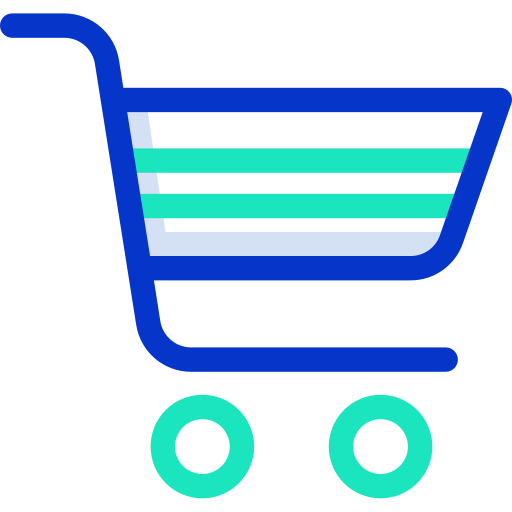
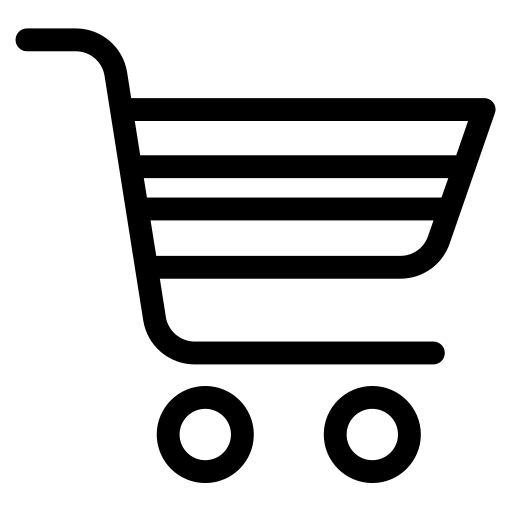
new img

diff --git a/src/components/Offer/Offer.js b/src/components/Offer/Offer.js
@@ -1,7 +1,7 @@
 import React, { useState } from 'react';
 import { OfferButton, OfferText, OfferTitle, OfferWrapper } from './OfferStyles';
 import Modal from '../Modal/Modal';
-import shop from '../../images/shop.jpg'
+import shop from '../../images/shop.png'
 
 const Offer = () => {
     const [showModal, setShowModal ] = useState(false);
@@ -15,7 +15,7 @@ const Offer = () => {
             <OfferTitle>Skorzystaj z oferty</OfferTitle>
             <OfferText>Odzwiedź nasz salon i sprawdź, co zyskujesz</OfferText>
             <OfferButton onClick = { handleOpenModal } >znajdź salon</OfferButton>
-            <Modal showModal = {showModal} setShowModal = {setShowModal} text = 'tu powinieneś znaleźć swój ulubiony sklep' url = {shop} />
+            <Modal showModal = {showModal} setShowModal = {setShowModal} text = 'tu powinieneś znaleźć swój ulubiony sklep' url = { shop } />
         </OfferWrapper>
     )
 };

diff --git a/src/components/Realizations/Realizations.js b/src/components/Realizations/Realizations.js
@@ -21,7 +21,6 @@ const Realizations = () => {
                 <ExampleCard url = { img2 } />
                 <ExampleCard url = { img3 } />
                 <ExampleCard url = { img4 } />
-                
             </ExamplesWrapper>
         </RealizationsWrapper>
     )
